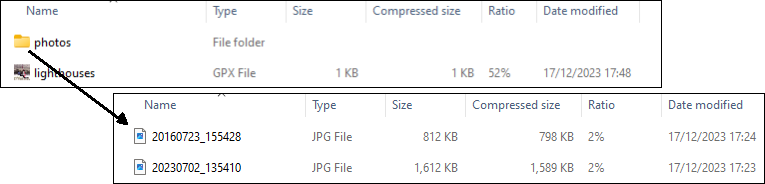
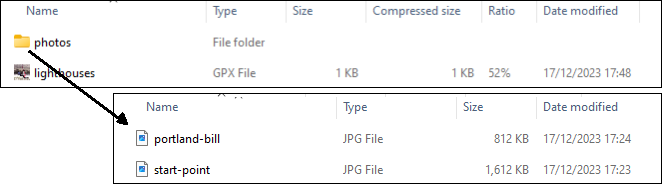
Use proper names for images

diff --git a/docs/usage/gpz/README.md b/docs/usage/gpz/README.md
@@ -1,5 +1,13 @@
 ## GPZ Files
 
+This page describing GPZ files is an adaption of the Google developers page describing [KMZ files](https://developers.google.com/kml/documentation/kmzarchives).
+
+The main structure and wording has been retained, but the original examples have been replaced with GPX/GPZ content.
+
+The pages describing KMZ files and GPZ files are both licensed under the [Creative Commons Attribution 4.0 License](https://creativecommons.org/licenses/by/4.0/).
+
+
+
 ### What is a GPZ File?
 
 A GPZ file consists of a main GPX file and zero or more supporting files that are packaged using a [Zip utility](http://en.wikipedia.org/wiki/ZIP_(file_format)) into one unit, called an *archive*. The GPZ file can then be stored and emailed as a single entity. When the GPZ file is unzipped, the main *.gpx* file and its supporting files are separated into their original formats and directory structure, with their original filenames and extensions. In addition to being an archive format, the Zip format is also compressed, so an archive can include only a single large GPX file. Depending on the content of the GPX file, this process typically results in 10:1 compression. Your 10 Kbyte GPX file can be served with a 1 Kbyte GPZ file.
@@ -12,9 +20,9 @@ You should create a GPZ file if your *activity.gpx* file is larger than 10 Kbyte
 
 ### Recommended Directory Structure
 
-This section provides a few simple recommendations for the creators of GPX/GPZ files. The example used in this section uses the GPX format to show the inclusion of two photos in addition to the GPX file.
+This section provides a few simple recommendations for the creators of GPX/GPZ files. The example used in this section uses the GPX format to show the inclusion of two photos which accompany the GPX file.
 
-![img](photos/20160723_155428.jpg)
+![img](photos/portland-bill.jpg)
 
 Download the example *[GPZ file](example.gpz)* which contains the GPX and example photos.
 
@@ -30,7 +38,7 @@ Follow these guidelines when creating GPZ files:
 
 4. **Use relative references.** See "References to External Files" for more details. All relative paths begin inside the base folder described above in item 1. For example, if a GPZ file *coastal-walk.gpz* is on the desktop, and its *activity.gpx* file refers to a file *lighthouse.jpg*, which is also on the desktop, the `href` attribute of the `<link>` in the *activity.gpx* file is `../lighthouse.jpg`.
 
-5. Do not use the *.gpz* extension for any of the subfolders within a GPZ file. The *.gpz* extension is reserved for the name of the archive itself. For example, here is the file structure of the lighthouses GPZ file:
+5. Do not use the *.gpz* extension for any of the subfolders within a GPZ file. The *.gpz* extension is reserved for the name of the archive itself. For example, here is the file structure of the example GPZ file:
 
 ![img](img/example.png)
 
@@ -40,10 +48,9 @@ Here is the GPX code for one of the photo references:
 
 ```xml
 <wpt lat="50.513380" lon="-2.456620">
-  <desc>View point</desc>
-  <link href="photos/20160723_155428.jpg">
+  <desc>View from Portland Bill</desc>
+  <link href="photos/portland-bill.jpg">
     <text>Portland Bill Lighthouse</text>
-    <type>image/jpeg</type>
   </link>
 </wpt>
 ```
@@ -56,6 +63,7 @@ The *activity.gpx* file may contain a number of links to other files - images, i
 
 - the `<link href>` element of `<metadata>`,  `<author>`, `<wpt>`, `<rte>`, `<rtept>`, `<trk>`, `<trkseg>`, `<trkpt>`
 - the `<license>` element of `<copyright>`
+- any links within `<extensions>`
 
 These external links can be either *absolute* or *relative* references, as described in the following section. They can refer to files within the same GPZ file, or to files contained in other GPZ files or stored elsewhere on the web. Relative references are always resolved in relation to the *activity.gpx* file, as explained in the section "Resolving Relative References".
 
@@ -69,10 +77,9 @@ Here is an example of an absolute reference to a file stored on a central server
 
 ```xml
 <wpt lat="50.513380" lon="-2.456620">
-  <desc>View point</desc>
-  <link href="https://logiqx.github.io/gpx-ideas/usage/gpz/photos/20160723_155428.jpg">
+  <desc>View from Portland Bill</desc>
+  <link href="https://logiqx.github.io/gpx-ideas/usage/gpz/photos/portland-bill.jpg">
     <text>Portland Bill Lighthouse</text>
-    <type>image/jpeg</type>
   </link>
 </wpt>
 ```
@@ -85,12 +92,11 @@ In general, relative references are resolved in relation to the *activity.gpx* f
 
 `lighthouses.gpx`
 
-If you wanted to refer to a file located in a different GPZ file (for example, to *photos/20160723_155428.jpg* contained in *another-example.gpz*, you would use the ".." notation to go up one level in the directory structure, which would take you out of the current GPZ file (*example.gpz*):
+If you wanted to refer to a file located in a different GPZ file (for example, to *photos/fraggle-rock.jpg* contained in *another.gpz*, you would use the ".." notation to go up one level in the directory structure, which would take you out of the current GPZ file (*example.gpz*):
 
 ```xml
-<link href="../another-example.gpz/photos/20160723_155428.jpg">
+<link href="../another.gpz/photos/fraggle-rock.jpg">
   <text>Another Lighthouse</text>
-  <type>image/jpeg</type>
 </link>
 ```
 
